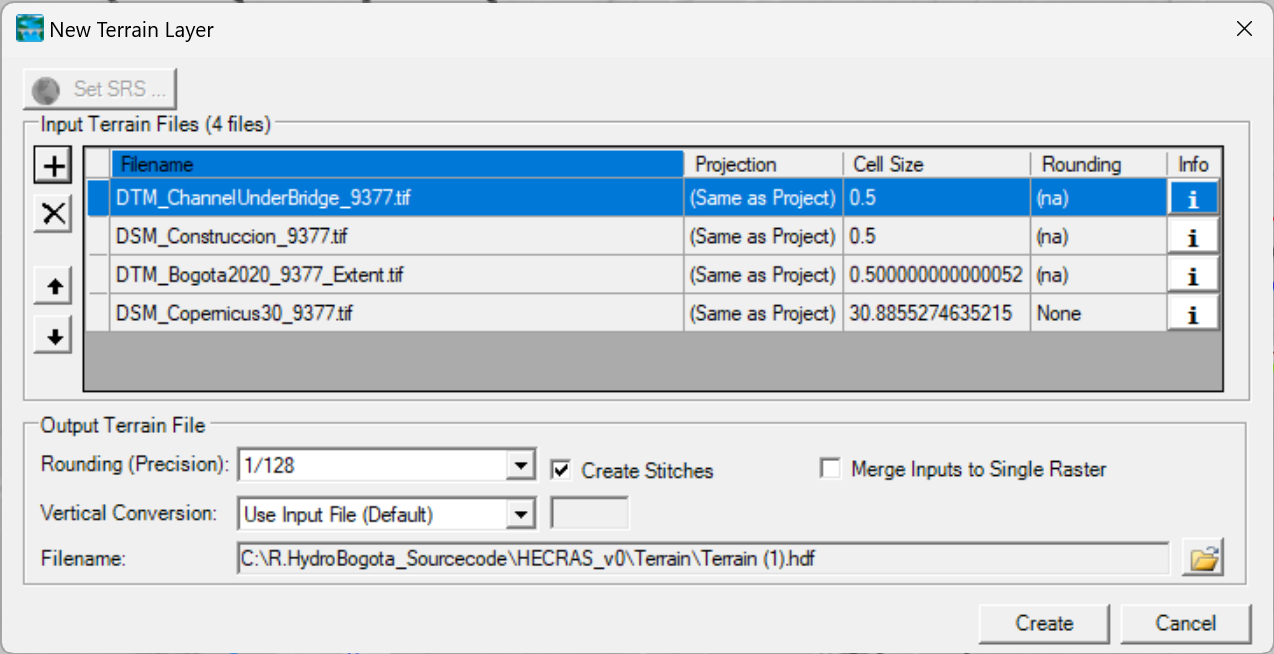
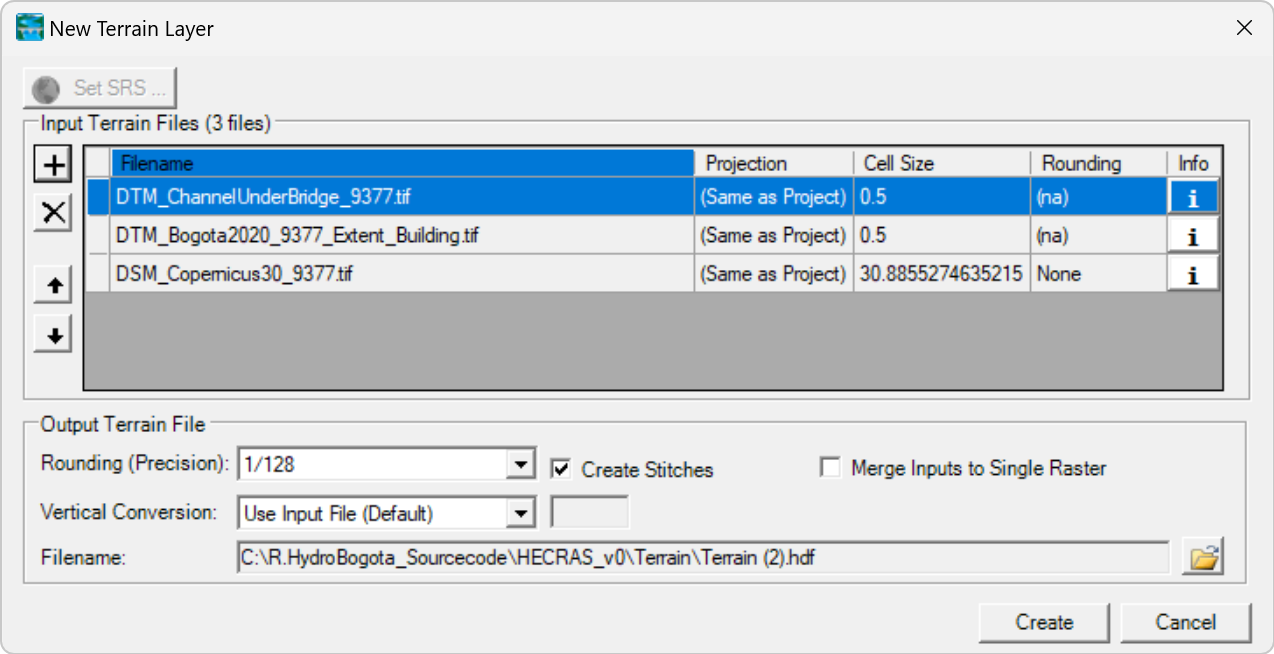
General update.

diff --git a/.dem/Readme.md b/.dem/Readme.md
@@ -38,7 +38,7 @@ DSM_AlosPalsar_9377_Fit.tif
 
 Modelo de superficie con cobertura completa sobre toda la zona de estudio y utilizado para modelación hidráulica, requerido para la creación del modelo híbrido de elevación de toda la cuenca del Río Bogotá. 
 
-> Durante la revisión de las cotas de los modelos digitales de elevación que cubren toda la cuenca, se pudo evidenciar que la calidad del modelo [COPERNICUS](https://www.copernicus.eu/en) (30m) es superior a la mostrada en el modelo NASA ALOS PALSAR (12.5m), por lo que se puede observar en algunas zonas sin vegetación el corredor del río Bogotá, lo anterior debido a la tecnología SAR de alta resolución empleada por la [ESA](https://www.esa.int/).
+> Durante la revisión de las cotas de los modelos digitales de elevación que cubren toda la cuenca, se pudo evidenciar que la calidad del modelo [COPERNICUS](https://www.copernicus.eu/en) (30m) es superior a la mostrada en el modelo NASA ALOS PALSAR (12.5m), por lo que se puede observar en algunas zonas sin vegetación el corredor del río Bogotá, lo anterior debido a la tecnología SAR de alta resolución empleada por la [ESA](https://www.esa.int/). La diferencia de elevaciones encontrada entre el modelo de superficie COPERNICUS y LIDAR Bogota D.C. 2020 es de máximo +1 metro, mientras que la diferencia con respecto al modelo NASA ALOS PALSAR está al rededor de +21 metros.
 
 :open_file_folder: Ráster reproyectado:  [DSM_Copernicus30_9377.tif](DSM_Copernicus30_9377.rar)
 
@@ -125,12 +125,11 @@ El modelo HEC-RAS, contiene la geometría denominada **_ChannelFit_** (cuyo terr
 
 ## Modelo digital de terreno DTM Híbrido Copernicus, Lidar con Construcciones y Canales ajustados en pasos de vía
 
-> Para el ensamble del modelo de terreno híbrido en HEC-RAS se recomienda integrar previamente las construcciones al modelo digital de terreno Lidar, tal como se realizó con el Modelo digital de terreno DTM Híbrido Lidar Extendido con Construcciones (0.5m) DTM_Bogota2020_9377_Extent_Building.tif. La integración previa reduce considerablemente los tiempos de creación del Modelo Digital de Terreno DTM en RAS Mapper debido a que se reducen las uniones o puntadas (Create Stitches) entre las superficies empleadas. 
+> Para el ensamble del modelo de terreno híbrido en HEC-RAS, se recomienda integrar previamente las construcciones al modelo digital de terreno Lidar, tal como se realizó con el Modelo digital de terreno DTM Híbrido Lidar Extendido con Construcciones (0.5m) _DTM_Bogota2020_9377_Extent_Building.tif_. La integración previa reduce considerablemente los tiempos de creación del Modelo Digital de Terreno DTM en RAS Mapper, debido a que se reducen las uniones o puntadas (Create Stitches) entre las superficies empleadas. 
 
 Orden de ensamble en RAS Mapper
 
 * Modelo digital de canales en pasos de vía (0.5m): [DTM_ChannelUnderBridge_9377.tif](DTM_ChannelUnderBridge_9377.rar)
-* Modelo digital de construcciones DSM (0.5m): DSM_Construccion_9377.tif, [P1](DSM_Construccion_9377.part1.rar), [P2](DSM_Construccion_9377.part2.rar), [P2](DSM_Construccion_9377.part2.rar)
 * Modelo digital de terreno DTM Híbrido Lidar Extendido con Construcciones (0.5m): [DTM_Bogota2020_9377_Extent_Building.tif](https://github.com/rcfdtools/R.HydroBogota/releases/tag/DTM_Bogota2020_Extent_Building_v1.0.0)
 * Modelo digital de superficie DSM satelital Copernicus (30m): [DSM_Copernicus30_9377.tif](DSM_Copernicus30_9377.rar)
 
